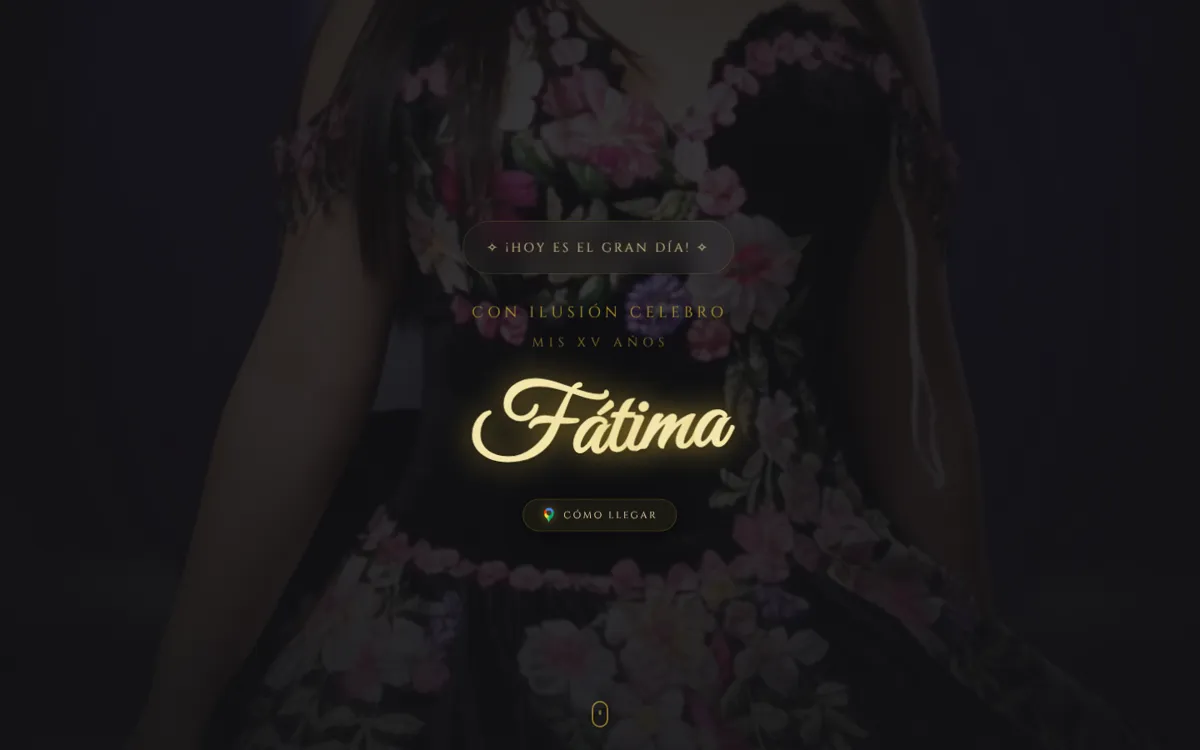
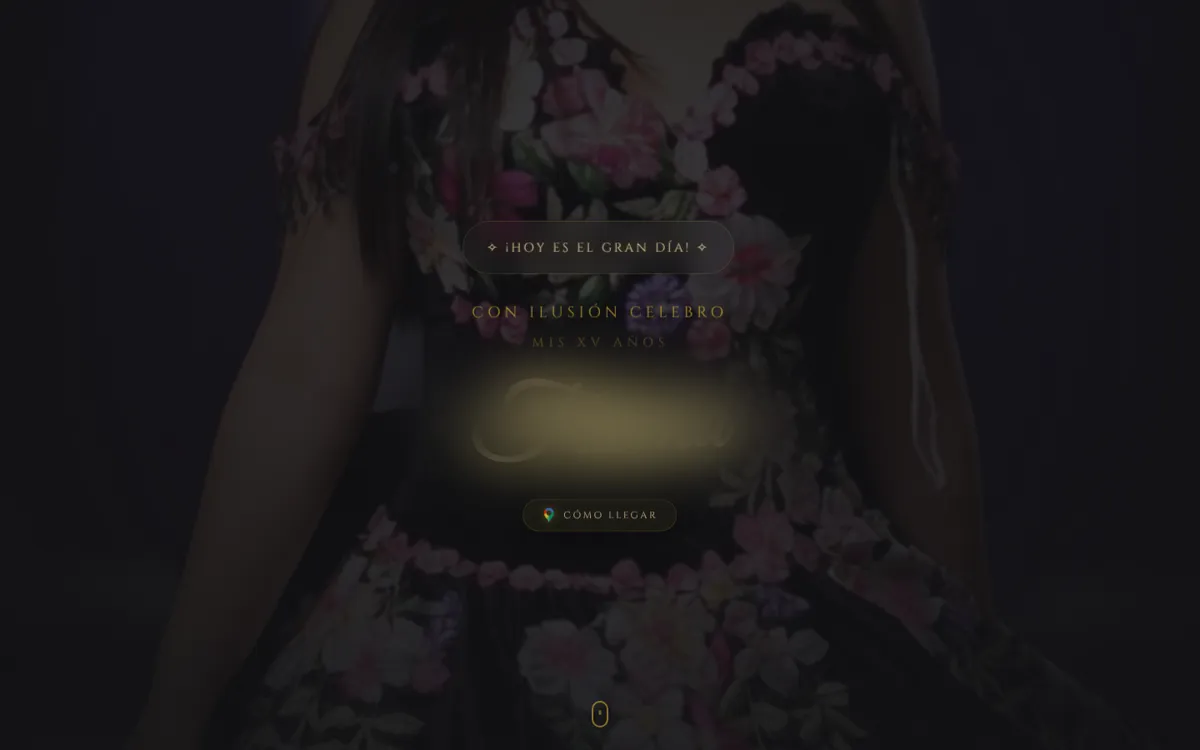
Anonimiza The Gala, corrige cédula y enlaza Inteligencia MX
Claude-Session: https://claude.ai/code/session_01Ta1BngGpTPMAwzj7eSqJVN

Changed region(s): [[0.37, 0.46, 0.6167, 0.644]]

diff --git a/index.html b/index.html
@@ -262,14 +262,15 @@
                         <span>Cerveza artesanal</span>
                     </div>
                 </a>
-                <a href="https://xvfatima.thegala.online/" target="_blank" rel="noopener" class="work-card reveal">
-                    <img src="images/portfolio/thegala.webp" alt="Invitación digital XV años de The Gala"
+                <div class="work-card work-private reveal">
+                    <img src="images/portfolio/thegala.webp" alt="Invitación digital de XV años con datos ocultos"
                         loading="lazy" width="1200" height="750">
+                    <span class="work-lock">Cliente privado</span>
                     <div class="work-label">
                         <h3>The Gala</h3>
                         <span>Invitación digital XV años</span>
                     </div>
-                </a>
+                </div>
             </div>
             <div class="work-more reveal">
                 <a href="https://wa.me/525534806184?text=Hola%20Erick%2C%20quiero%20que%20mi%20negocio%20sea%20el%20siguiente%20en%20tu%20portafolio"
@@ -351,13 +352,13 @@
             </a>
 
             <!-- INTELIGENCIA MX -->
-            <a href="https://inteligencia-mx.erickddp.com" target="_blank" rel="noopener"
+            <a href="https://claude.ai/artifact/YZg4n842yopJLsLnZuQqRL" target="_blank" rel="noopener"
                 class="bento-card bento-intel">
                 <div class="bento-glow"></div>
                 <div class="bento-body">
                     <span class="bento-badge"><i class="live-dot"></i> Acceso público</span>
                     <h3>Inteligencia MX</h3>
-                    <p>Datos e inteligencia sobre México, abiertos para que cualquiera los consulte y explore.</p>
+                    <p>Consola pública de consulta fiscal: 27 leyes con su fuente oficial, 137 cifras de ley y 129 reglas de cálculo. Orientación, no asesoría.</p>
                     <span class="bento-cta">Explorar <span>→</span></span>
                 </div>
                 <div class="bento-visual intel-visual" aria-hidden="true">
@@ -510,7 +511,7 @@
                         <img src="images/edu/cescijuc.png" alt="CESCIJUC" class="edu-logo-v2" loading="lazy">
                     </a>
                     <h3>Lic. en Contaduría Pública</h3>
-                    <div class="edu-inst">CESCIJUC <br> Céd. Prof. 13182616</div>
+                    <div class="edu-inst">CESCIJUC <br> Céd. Prof. 13758780</div>
 
                     <div class="edu-timeline">
                         <div class="edu-line-container">
@@ -731,7 +732,7 @@
                     <div class="col">
                         <h4>Ecosistema</h4>
                         <a href="https://factura.erickddp.com" target="_blank" rel="noopener">Timbra</a>
-                        <a href="https://inteligencia-mx.erickddp.com" target="_blank" rel="noopener">Inteligencia MX</a>
+                        <a href="https://claude.ai/artifact/YZg4n842yopJLsLnZuQqRL" target="_blank" rel="noopener">Inteligencia MX</a>
                         <a href="https://blog.erickddp.com" target="_blank" rel="noopener">Blog</a>
                         <a href="https://myfiscal.erickddp.com" target="_blank" rel="noopener">myfiscal</a>
                         <a href="https://evoapp.erickddp.com" target="_blank" rel="noopener">evoapp</a>

diff --git a/styles.css b/styles.css
@@ -5272,3 +5272,24 @@ body.loading {
         grid-template-columns: 1fr;
     }
 }
+
+.work-private {
+    cursor: default;
+}
+
+.work-lock {
+    position: absolute;
+    top: 0.75rem;
+    right: 0.75rem;
+    z-index: 2;
+    font-family: var(--font-mono);
+    font-size: 0.65rem;
+    letter-spacing: 0.08em;
+    text-transform: uppercase;
+    color: var(--text-secondary);
+    padding: 0.3rem 0.65rem;
+    border-radius: 9999px;
+    background: rgba(0, 0, 0, 0.65);
+    border: 1px solid rgba(255, 255, 255, 0.15);
+    backdrop-filter: blur(6px);
+}
